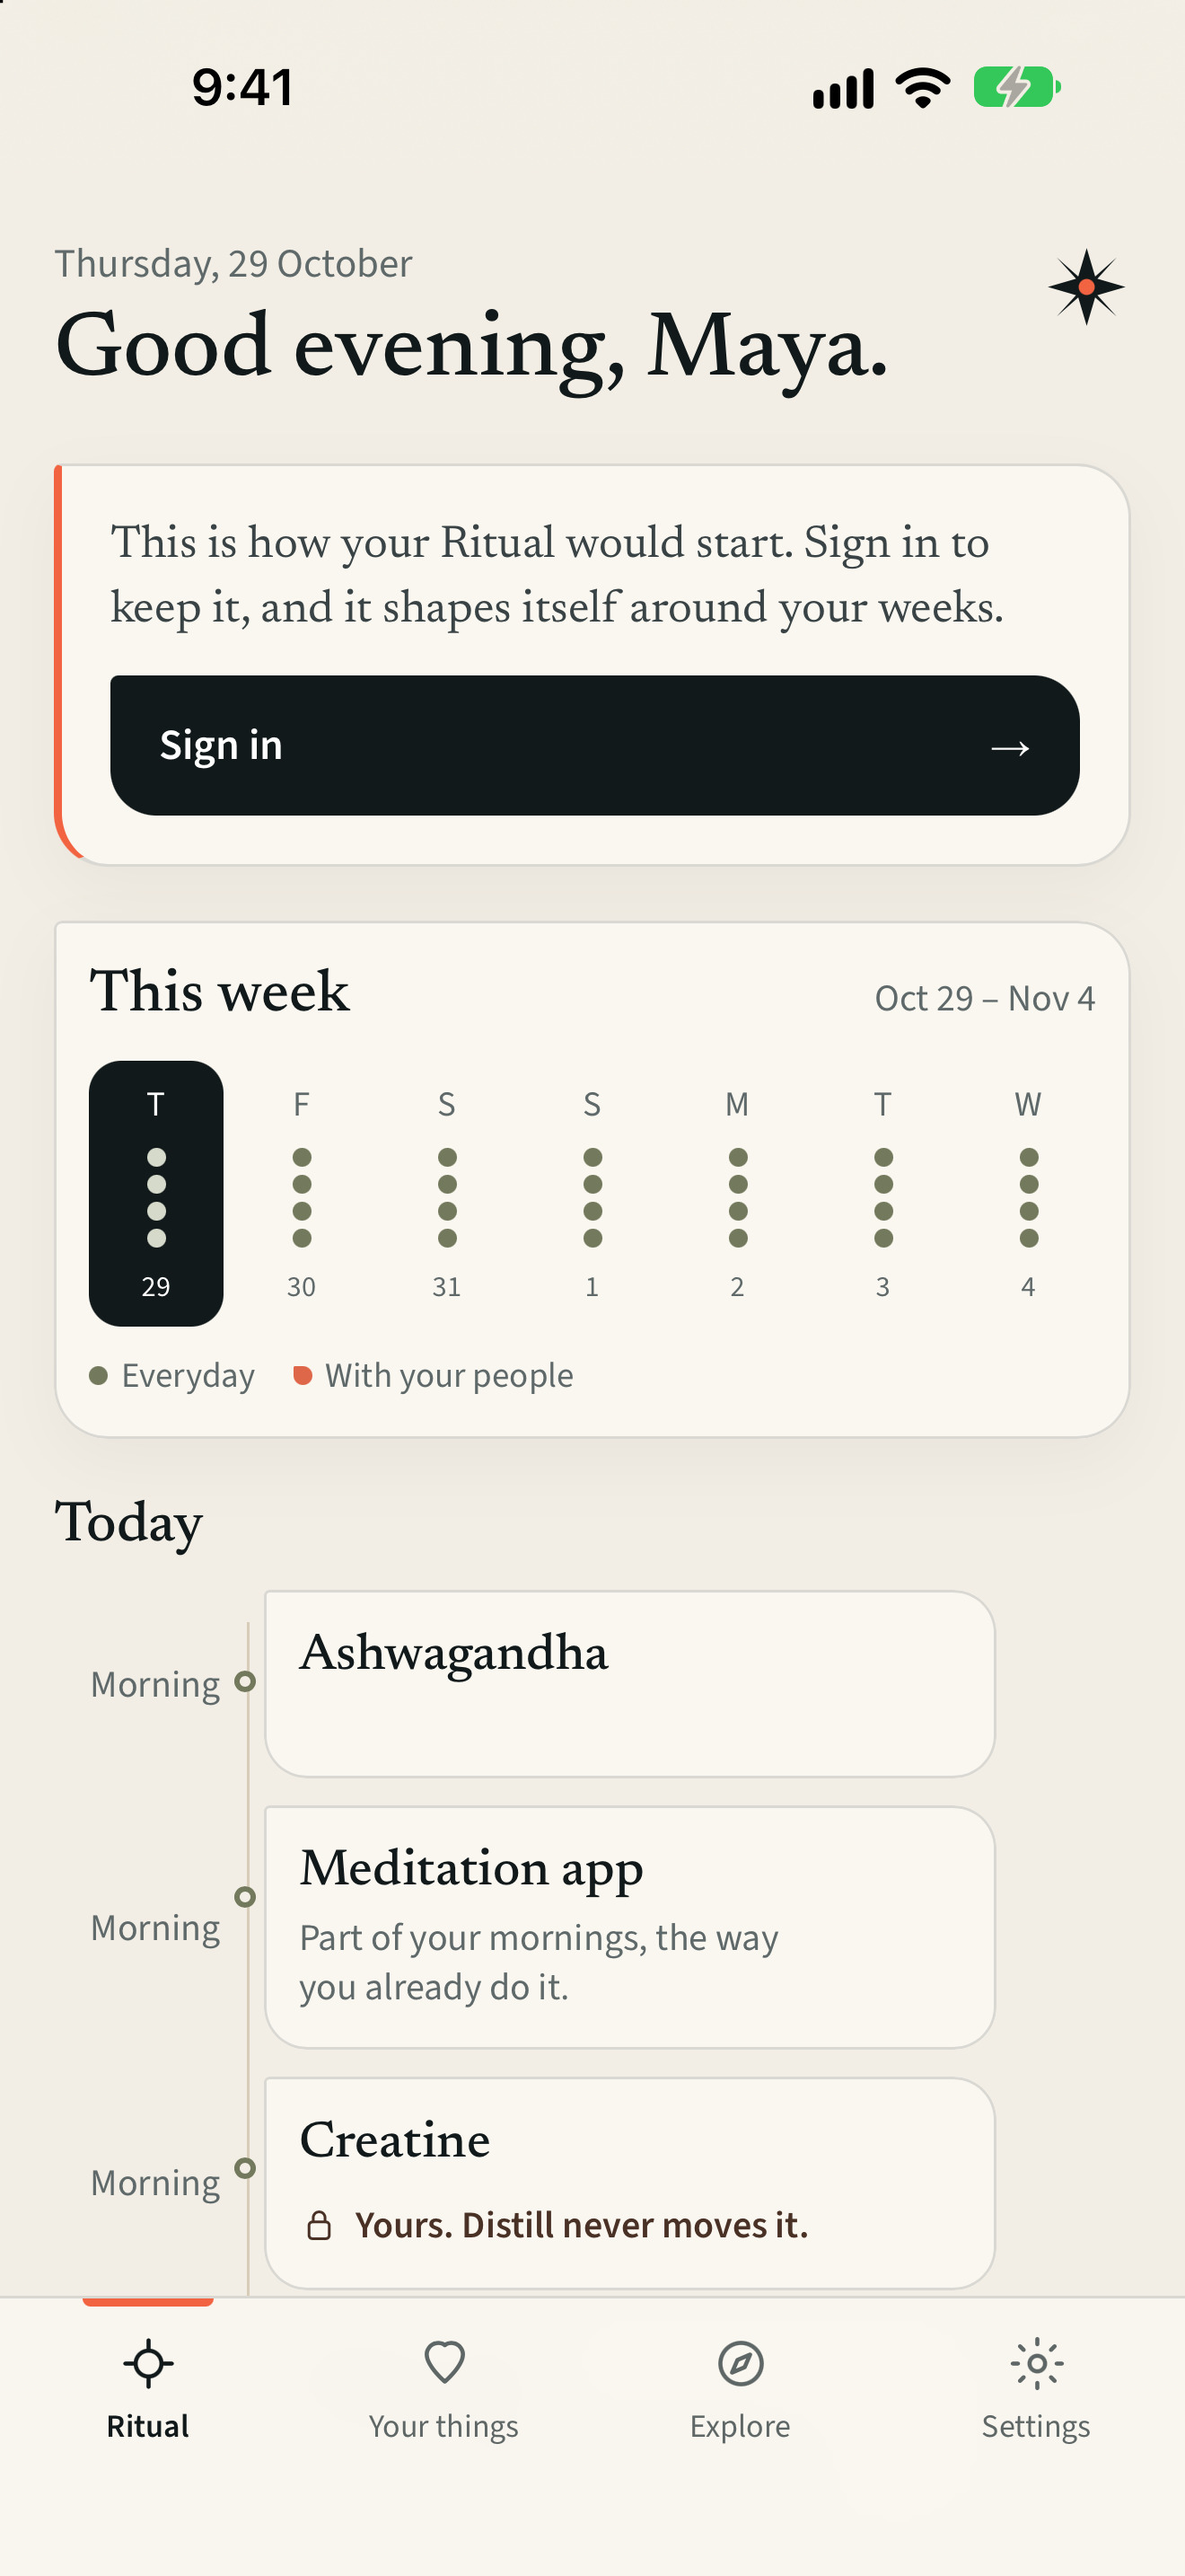
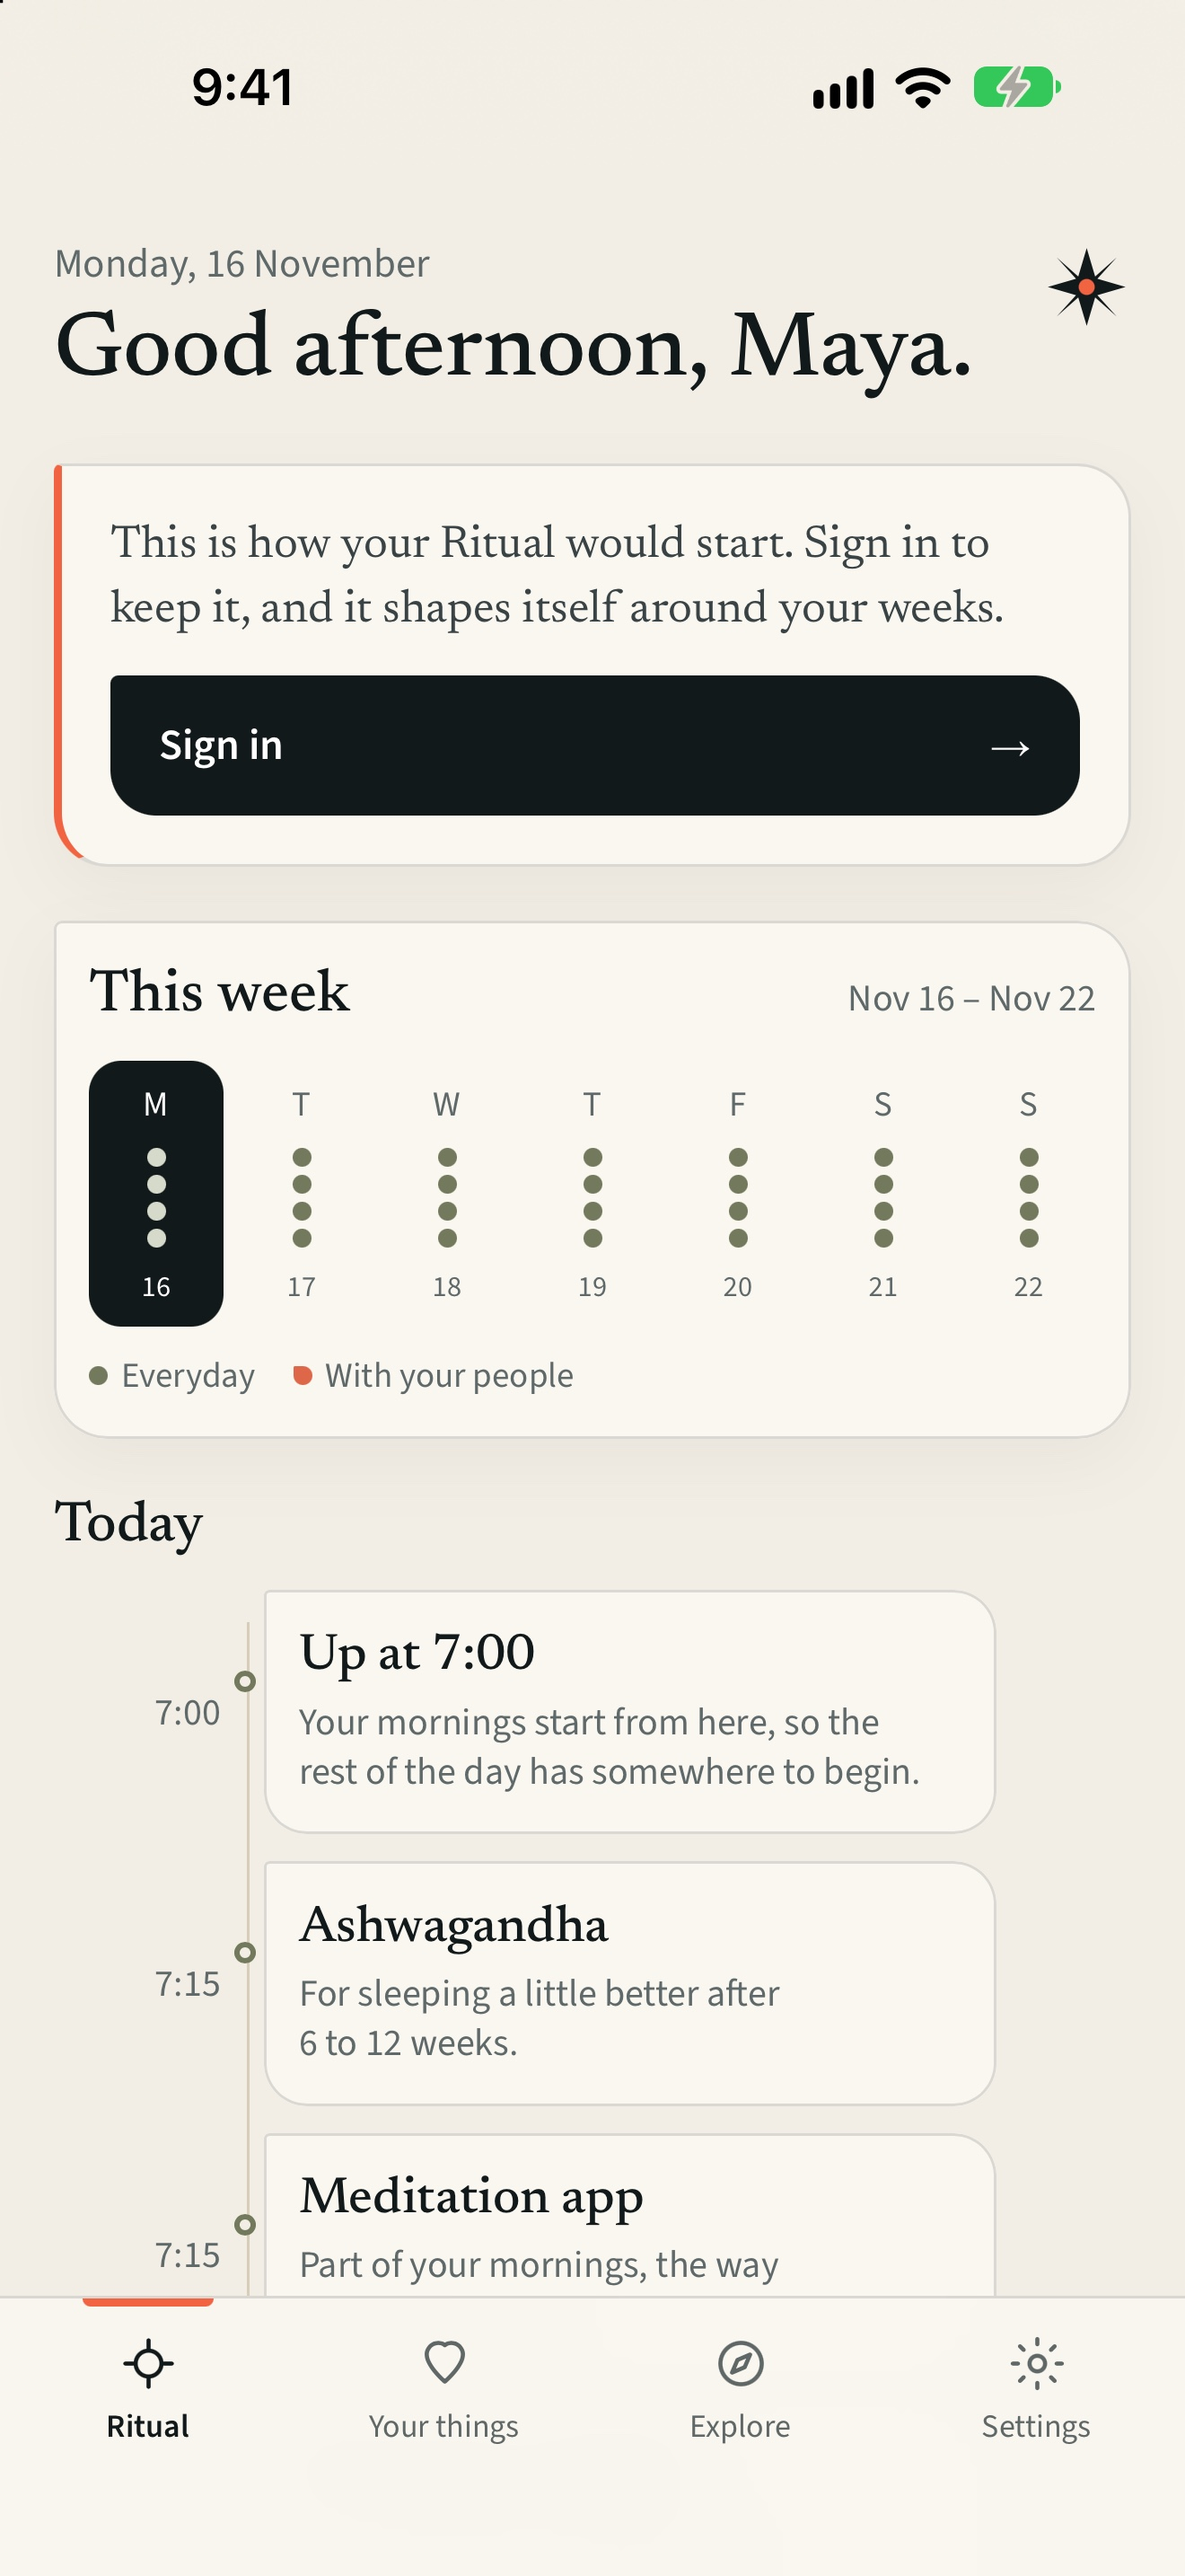
App Store screenshots: retaken after the 12 November onboarding redesign
Seven 1320x2868 JPEGs from the iPhone 18 Pro Max Simulator, the app pointed at
a local server so nothing reached the live funnel or waitlist: the opener, the
stack taps, the number, what can go, your Ritual, the Ritual tab after Not now,
and the private study. Same names and order as before.

diff --git a/docs/APP-STORE.md b/docs/APP-STORE.md
@@ -14,7 +14,7 @@
 | Build 1.0 (1) uploaded | Claude | Done, 16 November (`npm run upload`, section 3) |
 | The engine live in production (HANDOVER priority 1) | Rohan | Check before submitting: a reviewer who signs in must get a first Ritual |
 | Listing, privacy answers, age rating | Ishan, Veer signs off the words | Drafts below |
-| Screenshots | Claude; Veer signs off | Seven from 29 October, in `apps/mobile/store/screenshots/`; retake after the 12 November onboarding redesign |
+| Screenshots | Claude; Veer signs off | Seven, retaken 16 November after the onboarding redesign, in `apps/mobile/store/screenshots/` |
 | A way past the email step without giving an email | Claude; Veer signs off | Done: "Not now" under Join free goes straight into the demo (counted as `email_skipped`). Apple often rejects apps that ask for personal details before features that don't need an account (guideline 5.1.1) |
 | TestFlight on real phones, then submit for review | Ishan | Next |
 
@@ -79,7 +79,7 @@ Once the engine is live in production, add a paragraph on reshaping: "Out late w
 
 **Copyright:** 2026 Lin Yang, the name Apple shows as the seller.
 
-**Screenshots** (6.9-inch, 1320 x 2868, required): seven are in `apps/mobile/store/screenshots/`, taken in the iPhone 18 Pro Max Simulator from this branch's web app with a sample person (Maya, 14 things): the noise, tap your stack, the number, what can go, your Ritual, the Ritual tab, the private study. They are JPEGs without transparency, as App Store Connect asks. Upload them in that order; retake any screen that changes before submitting. iPhone only, so no iPad screenshots are needed.
+**Screenshots** (6.9-inch, 1320 x 2868, required): seven are in `apps/mobile/store/screenshots/`, retaken 16 November in the iPhone 18 Pro Max Simulator from the app as it is after the 12 November redesign, with a sample person (Maya, 20 things, $988 a month): the noise, tap your stack, the number, what can go, your Ritual, the Ritual tab, the private study. They are JPEGs without transparency, as App Store Connect asks. Upload them in that order; retake any screen that changes before submitting. iPhone only, so no iPad screenshots are needed.
 
 **Age rating:** answer the questionnaire as the app is: no violence, sexual content, gambling or user-to-user contact; "Alcohol, Tobacco, or Drug Use or References: Infrequent/Mild" (people's own wine nights, supplements); "Medical or Treatment Information: Infrequent/Mild" (evidence about supplements, never advice). The privacy page says Distill is for adults (18+); if the questionnaire comes out lower, either set the age rating to 18+ in App Store Connect or change that line. A team decision.
 
